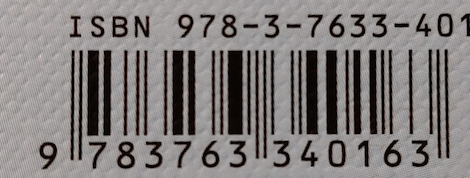
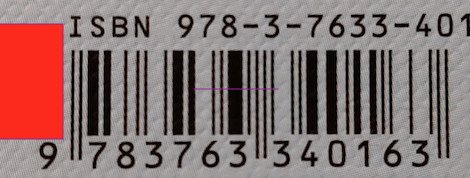
Start and end of a barcode is now detected by checking boundary conditions

Changed region(s): [[0.0, 0.1124, 0.1489, 0.7865], [0.417, 0.4775, 0.5957, 0.5056]]

diff --git a/src/barcode/Decode.java b/src/barcode/Decode.java
@@ -10,9 +10,11 @@ import javax.imageio.ImageIO;
 
 public class Decode {
 
+	private static final int ONE_MODULE_EQUALS_7_BARS = 7;
+
 	public static String ean(String fileName, String outputFile, int barcodeVerticalpos) throws IOException {
-		
-		long startTime = System.currentTimeMillis();    
+
+		long startTime = System.currentTimeMillis();
 
 		StringBuilder protocol = new StringBuilder();
 
@@ -24,7 +26,8 @@ public class Decode {
 		int width = inputImage.getWidth();
 		int height = inputImage.getHeight();
 
-		protocol.append("Image read. Height=" + height + " Width=" + width + " ["+(System.currentTimeMillis()-startTime)+"ms]\n");
+		protocol.append("Image read. Height=" + height + " Width=" + width + " ["
+				+ (System.currentTimeMillis() - startTime) + "ms]\n");
 
 		float normSum = 0;
 
@@ -48,7 +51,8 @@ public class Decode {
 		// über alle Bildpunkte.....
 		//
 		float avgNormSum = normSum / (width * height);
-		protocol.append("Image was analyzed. Avarage luminance=" + avgNormSum +" ["+(System.currentTimeMillis()-startTime)+"ms]\n");
+		protocol.append("Image was analyzed. Avarage luminance=" + avgNormSum + " ["
+				+ (System.currentTimeMillis() - startTime) + "ms]\n");
 		protocol.append("Creating optimized image for decoding\n");
 
 		//
@@ -74,7 +78,13 @@ public class Decode {
 				}
 			}
 		}
-		protocol.append("Optimized image created"+ " ["+(System.currentTimeMillis()-startTime)+"ms]\n");
+		protocol.append("Optimized image created" + " [" + (System.currentTimeMillis() - startTime) + "ms]\n");
+
+		//
+		// Vertikale pos. ab der der barcode gelesen wird markieren.....
+		//
+		graphics.setColor(new Color(0, 255, 0));// Zum markieren der Mitte, des Anfangs und des Endes des Codes...
+		graphics.drawLine(0, barcodeVerticalpos + 2, width, barcodeVerticalpos + 2);
 
 		//
 		// ISBN 13 => 13 Ziffern
@@ -84,42 +94,59 @@ public class Decode {
 		//
 		protocol.append("Reading barcode. y=" + barcodeVerticalpos + "\n");
 
-		graphics.setColor(new Color(0, 255, 0));// Zum markieren der Mitte, des Anfangs und des Endes des Codes...
-
-		int barcodeData[]; // Rohe Bilddaten binary.
-		barcodeData = new int[width];
+		int rawBarcodeData[]; // Rohe Bilddaten binary.
+		rawBarcodeData = new int[width];
 
 		//
 		// Eine Zeile des barcodes lesen
 		//
+		// Wir habenn nun die Rohdaten. das heist der beginn wäre nur dann als
+		// 101 erkennbarm, wenn die Breite eines Balkens genau ein Pixel betrüge....
+		//
+		//
 		for (int x = 0; x < width; x = x + 1) {
-			graphics.drawLine(0, barcodeVerticalpos + 2, width, barcodeVerticalpos + 2);
-			int p = imageToDecode.getRGB(x, barcodeVerticalpos);
-			if (p == 0) {
-				barcodeData[x] = 0;
+			int pixel = imageToDecode.getRGB(x, barcodeVerticalpos);
+			if (pixel == 0) {
+				rawBarcodeData[x] = 0;
 			} else {
-				barcodeData[x] = 1;
+				rawBarcodeData[x] = 1;
 			}
 		}
 
-		//
-		// Beginn des Barcodes in der Zeile suchen.
-		//
-		// Wir wissen, der Beginn wird durch 101 markiert.
-		//
-		protocol.append("Locating horizontal start of barcode\n");
-
 		int xStart = 0, xEnd = 0;
+		boolean noValidStartFound = true;
 
-			while (barcodeData[xStart] != 1)
-				if (xStart < width - 1)
-					xStart++;
-				else
-					break;
+		protocol.append("Searching for horizontal start of barcode"+ " ["
+				+ (System.currentTimeMillis() - startTime) + "ms]\n");
+
+		while (noValidStartFound && xStart <= width) {
+
+			while (rawBarcodeData[xStart] != 1)
+				xStart++;
+
+			//
+			// Check for '101'
+			//
+			int n = xStart + 1;
+			int n0 = 0, n11 = 0, n12 = 0;
+
+			while (rawBarcodeData[n++] == 1)
+				n11++;
+			while (rawBarcodeData[n++] == 0)
+				n0++;
+			while (rawBarcodeData[n++] == 1)
+				n12++;
+
+			if (n0 == n11 && n0 == n12)
+				noValidStartFound = false;
+			else
+				xStart++;
+		}
 
 		graphics.drawLine(xStart, 0, xStart, height);
 
-		protocol.append("Horizontal start found at x=" + xStart + " ["+(System.currentTimeMillis()-startTime)+"ms]\n");
+		protocol.append("possible horizontal start found at x=" + xStart + " ["
+				+ (System.currentTimeMillis() - startTime) + "ms]\n");
 
 		//
 		// Die Breite des ersten Balkens bestimmt die Midestbreite für eine 0
@@ -128,13 +155,14 @@ public class Decode {
 		protocol.append("Determining min- width of one digit of the barcode and the width of one module\n");
 
 		xEnd = xStart;
-		while (barcodeData[xEnd] != 0)
+		while (rawBarcodeData[xEnd] != 0)
 			xEnd++;
 
 		int minBarWidth = xEnd - xStart;
-		int moduleWidth = minBarWidth * 7;
+		int moduleWidth = minBarWidth * ONE_MODULE_EQUALS_7_BARS;
 
-		protocol.append("Min- bar width for one digit=" + minBarWidth + " Module width=" + moduleWidth + " ["+(System.currentTimeMillis()-startTime)+"ms]\n");
+		protocol.append("Min- bar width for one digit=" + minBarWidth + " Module width=" + moduleWidth + " ["
+				+ (System.currentTimeMillis() - startTime) + "ms]\n");
 
 		//
 		// Nun bestimmen wir das Ende der aktuellen Zeile des Barcodes in der Bilddatei.
@@ -151,15 +179,21 @@ public class Decode {
 		//
 		// Wir markieren nun zunächst einmal die restlichen Bereiche des Barcodes...
 		//
+
+		protocol.append("Calculating width of barcode" + " [" + (System.currentTimeMillis() - startTime) + "ms]\n");
+		
 		xEnd = xStart + minBarWidth * 95;
 		graphics.drawLine(xEnd, 0, xEnd, height);
 
 		int startOfFirstHalf = xStart + 3 * minBarWidth;
 		graphics.drawLine(startOfFirstHalf, 0, startOfFirstHalf, height);
+
 		int endOfFirstHalf = startOfFirstHalf + 42 * minBarWidth;
 		graphics.drawLine(endOfFirstHalf, 0, endOfFirstHalf, height);
+
 		int startOfSecondHalf = endOfFirstHalf + 5 * minBarWidth;
 		graphics.drawLine(startOfSecondHalf, 0, startOfSecondHalf, height);
+
 		int endOfSecondHalf = startOfSecondHalf + 42 * minBarWidth;
 		graphics.drawLine(endOfSecondHalf, 0, endOfSecondHalf, height);
 
@@ -170,6 +204,33 @@ public class Decode {
 
 		for (int x = startOfSecondHalf + moduleWidth; x < endOfSecondHalf; x = x + moduleWidth)
 			graphics.drawLine(x, 0, x, height);
+		
+		protocol.append("Calculated width of barcode is "+(xEnd-xStart) + " [" + (System.currentTimeMillis() - startTime) + "ms]\n");
+
+		
+		//
+		// Bevor das Decodieren beginnt, schauen wir ob die Grenzen des barcodes klar
+		// erkannt werden...
+		//
+		//
+		// Check for '101'end...
+		//
+		int n = endOfSecondHalf + 1;
+		int n0 = 0, n11 = 0, n12 = 0;
+
+		while (rawBarcodeData[n++] == 1)
+			n11++;
+		while (rawBarcodeData[n++] == 0)
+			n0++;
+		while (rawBarcodeData[n++] == 1)
+			n12++;
+
+		if (n0 == n11 && n0 == n12)
+			protocol.append("possible horizontal end found at=" + endOfSecondHalf + " ["
+					+ (System.currentTimeMillis() - startTime) + "ms]\n");
+		else
+			protocol.append(">>>> COULD NOT FIND POSSIBLE END AT END CALCULATED " + endOfSecondHalf + "....TRYING TO DECODE ANYWAY..." + " ["
+					+ (System.currentTimeMillis() - startTime) + "ms]\n");
 
 		//
 		// Ergebnis speichern.
@@ -177,8 +238,9 @@ public class Decode {
 		File outputfile = new File(outputFile);
 		ImageIO.write(imageToDecode, "png", outputfile);
 
-		protocol.append("Output image written:" + outputFile + " ["+(System.currentTimeMillis()-startTime)+"ms]\n");
-
+		protocol.append(
+				"Output image written for evaluation by user:" + outputFile + " [" + (System.currentTimeMillis() - startTime) + "ms]\n");
+		
 		//
 		// Jede Ziffer wird mit 7 Modulen codiert...
 		// Aus den Rohdaten werden diese Module nun extraiert.
@@ -186,7 +248,7 @@ public class Decode {
 		protocol.append("Decoding starts......\n");
 
 		StringBuilder module = new StringBuilder();
-		int mod = 7;
+		int mod = ONE_MODULE_EQUALS_7_BARS;
 		int digit = 0;
 
 		// Erste Hälfte des Barcodes
@@ -194,8 +256,8 @@ public class Decode {
 		int digitNr = 0;
 		for (int i = startOfFirstHalf + 1; i < endOfFirstHalf; i = i + minBarWidth) {
 
-			module.append(barcodeData[i]);
-			
+			module.append(rawBarcodeData[i]);
+
 			mod--;
 			if (mod == 0) {
 				mod = 7;
@@ -219,12 +281,11 @@ public class Decode {
 		}
 
 		module.setLength(0);
-		mod = 7;
 		protocol.append("\n");
 
 		// Zweite Hälfte des Barcodes
 		for (int i = startOfSecondHalf; i < endOfSecondHalf; i = i + minBarWidth) {
-			module.append(barcodeData[i]);
+			module.append(rawBarcodeData[i]);
 			mod--;
 			if (mod == 0) {
 				mod = 7;
@@ -234,7 +295,7 @@ public class Decode {
 			}
 		}
 
-		protocol.append("Decoding ended."+ " ["+(System.currentTimeMillis()-startTime)+"ms]\n");
+		protocol.append("Decoding ended." + " [" + (System.currentTimeMillis() - startTime) + "ms]\n");
 
 		System.out.println(protocol.toString());
 

diff --git a/src/Main.java b/src/Main.java
@@ -14,7 +14,7 @@ public class Main {
 	 * @throws IOException
 	 */
 	public static void main(String arghs[]) throws IOException {
-		Decode.ean("perfect.png","debugImage.png", 89);
+		Decode.ean("perfect.png","debugImage.png",250);
 
 	}
 
